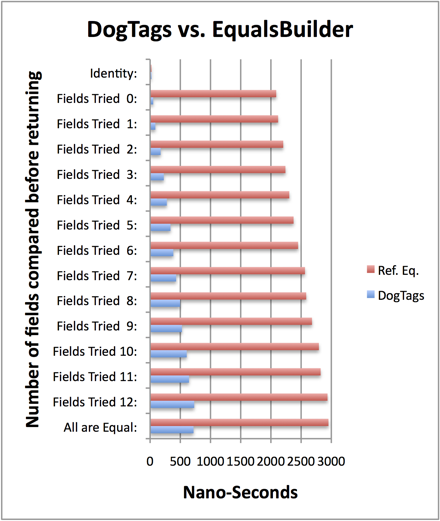
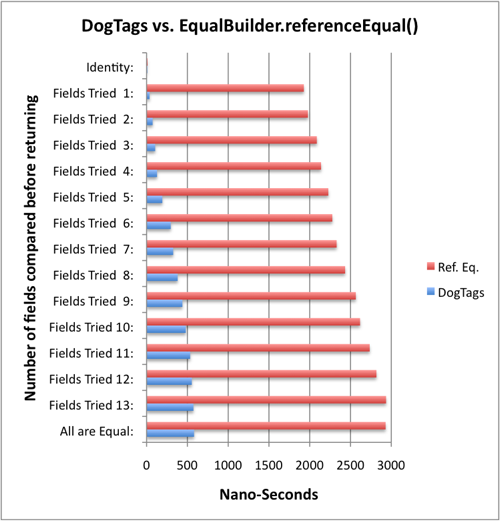
Timing Utility output improved New PNG file for new code

Changed region(s): [[0.0, 0.0, 1.0, 1.0], [0.8273, 0.4914, 0.975, 0.5835]]

diff --git a/src/test/java/com/equals/performance/TimingUtility.java b/src/test/java/com/equals/performance/TimingUtility.java
@@ -30,15 +30,20 @@ enum TimingUtility {
    * @param excluded Excluded field names. Should match those specified by the DogTag
    * @param <T> The type being tested
    */
+  @SuppressWarnings("StringConcatenation")
   static <T> void runTestCycles(DogTag<T> dogTag, final T t0, final T[] instances, final BiFunction<T, T, Boolean> directEqual, String[] excluded) {
     for (int i = 0; i < 4; ++i) {
-      //noinspection StringConcatenation
       System.out.println("Test " + i);
+      //noinspection HardcodedFileSeparator
+      System.out.printf("%15s \t%5s\t%5s\t%5s\t%5s\t%8s%n", " ", "DgTg", "R.Eq", "HC", "Eq.B", "R.Eq/DgTg");
       int index = 0;
       for (T t : instances) {
         TimingUtility.runTimedTest(dogTag, directEqual, index++, t0, t, 1000000, instances.length - 2, excluded);
       }
-      System.out.println("\n\n");
+      System.out.println("\nKey: DgTg: DogTags\n" +
+          "     R.Eq: EqualsBuilder.ReferenceEqual()\n" +
+          "       HC: Hand Coded\n" +
+          "     Eq.B: new EqualsBuilder()\n");
     }
   }
 
